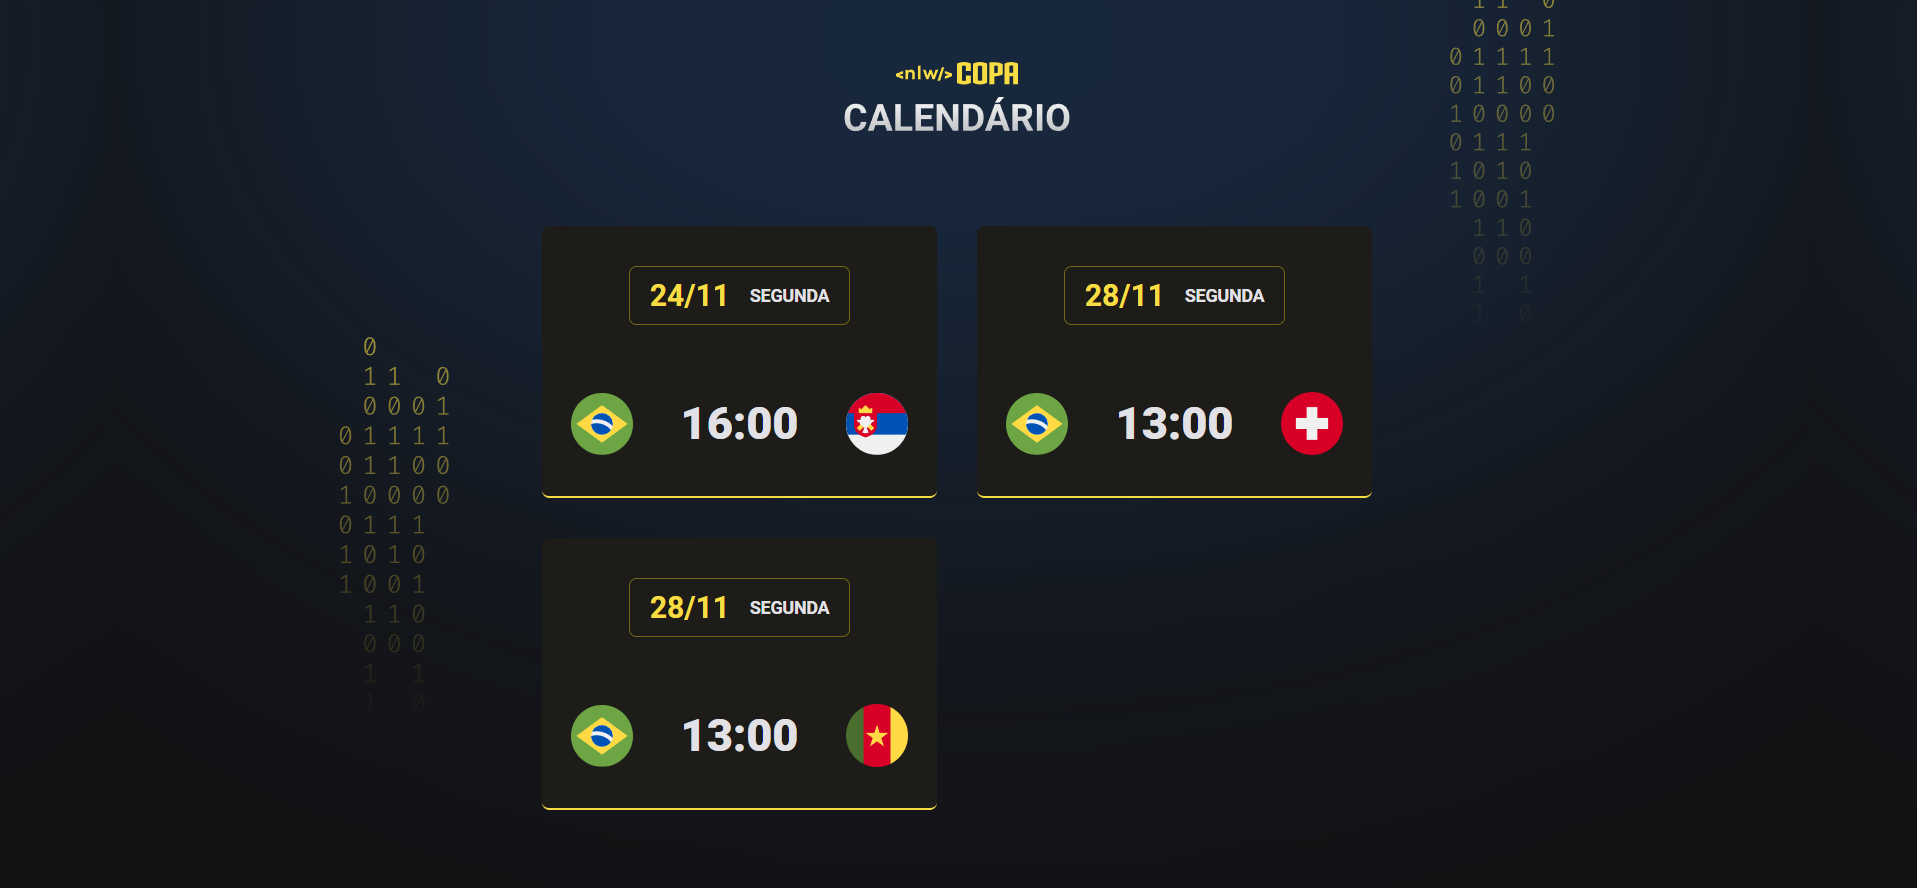
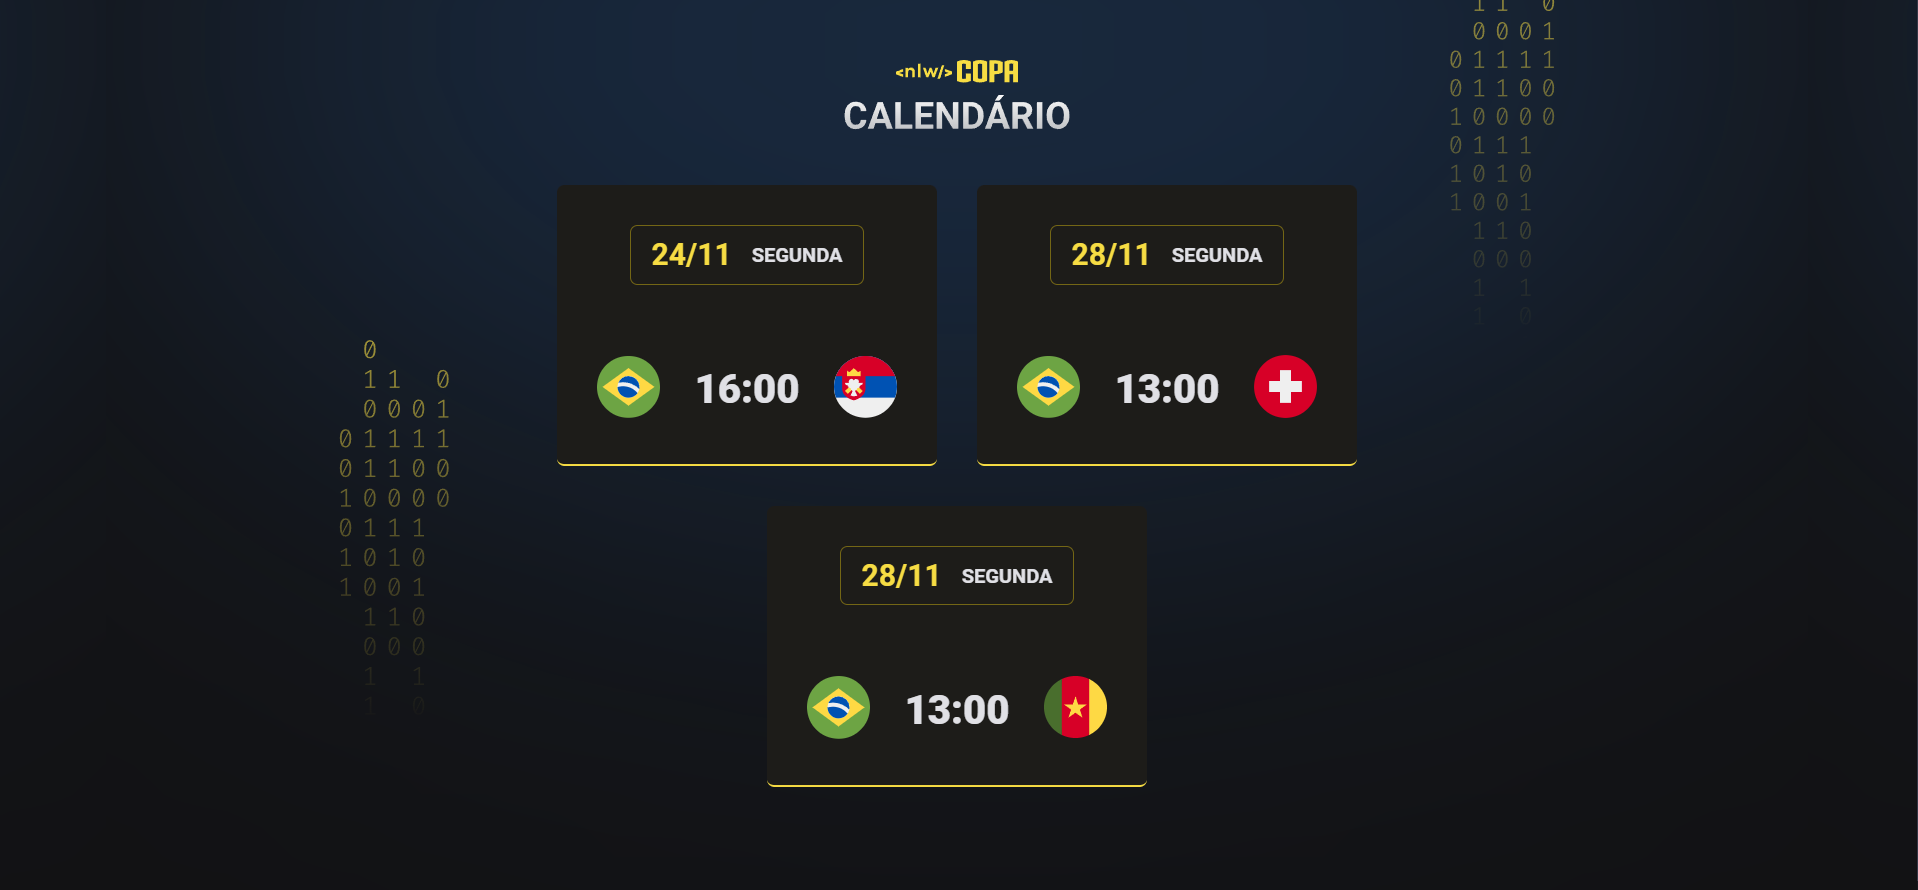
Update project

diff --git a/style.css b/style.css
@@ -4,86 +4,111 @@
   box-sizing: border-box;
 }
 
+body * {
+  font-family: "Roboto", sans-serif;
+  color: #e1e1e6;
+  text-align: center;
+  list-style: none;
+}
+
 body {
   background-color: #121214;
   background-image: url(./assets/bg.svg);
   background-position: center -715px;
 }
 
-body * {
-  font-family: "Roboto", sans-serif;
-}
-
-#app {
-  width: fit-content;
-  margin: 52px auto;
+main {
+  display: grid;
+  place-items: center;
 }
 
 header {
-  margin-bottom: 63px;
-  text-align: center;
+  padding-top: 3rem;
 }
 
 #cards {
-  display: grid;
-  grid-template-columns: 1fr 1fr;
+  max-width: 44rem;
+  padding: 2rem;
+  display: flex;
+  flex-wrap: wrap;
+  justify-content: center;
   gap: 2rem;
 }
 
 .card {
-  padding: 32px 23px;
-  text-align: center;
-
+  max-width: 20rem;
+  padding: 2rem;
   background: #1d1c19;
   border-bottom: 2px solid #f7dd43;
   border-radius: 6px;
+
+  display: flex;
+  flex-direction: column;
+  align-items: center;
+  justify-content: center;
+  gap: 3.5rem;
+  
+  opacity: 0;
+  animation: topDown .7s linear forwards;
 }
 
 .card h2 {
   display: flex;
-  gap: 16px;
-  justify-content: center;
+  gap: 1rem;
   align-items: center;
 
-  padding: 8px 16px;
+  padding: .5rem 1rem;
   border: 1px solid #746615;
   border-radius: 6px;
-
-  width: fit-content;
-  margin-inline: auto;
-  margin-bottom: 53px;
-
   color: #f7dd43;
+
+  animation: appear 2s;
 }
 
 .card h2 span {
-  color: #e1e1e6;
-  font-size: 14px;
+  font-size: 1rem;
   text-transform: uppercase;
 }
 
-.card ul {
-  display: flex;
-  flex-direction: column;
-  gap: 24px;
-
-  width: 270px;
-}
-
 .card ul li  {
+  width: 15rem;
   display: flex;
   align-items: center;
   justify-content: space-between;
 }
 
-.card ul li + li {
-  padding-top: 24px;
-  border-top: 1px solid #323238;
+.card ul li img {
+  transition: transform 0.3s;
+  animation: appear 2s;
+}
+
+.card ul li img:hover {
+  transform: scale(1.2);
 }
 
 .card ul li strong {
   font-weight: 900;
-  font-size: 36px;
-  line-height: 125%;
-  color: #E1E1E6;
+  font-size: 2rem;
+}
+
+@keyframes appear {
+  0% {
+    transform: scale(0);
+  }
+  
+  100% {
+    transform: scale(1);
+  }
+}
+
+@keyframes topDown {
+  from {
+    opacity: 0;
+    transform: translateY(-70px);
+  }
+
+  to {
+    opacity: 1;
+    transform: translateY(0);
+  }
 }

diff --git a/main.js b/main.js
@@ -1,16 +1,10 @@
-function createGame(player1, hour, player2) {
-  return `
-    <li>
-      <img src="./assets/icon-${player1}.svg" alt="Bandeira do ${player1}" />
-      <strong>${hour}</strong>
-      <img src="./assets/icon-${player2}.svg" alt="Bandeira da ${player2}" />
-    </li>
-  `
-}
+const sectionCards = document.querySelector("#cards")
+let delay = -1
 
 function createCard(date, day, games) {
+  delay = delay + 1
   return `
-    <div class="card">
+    <div class="card" style="animation-delay: ${delay}s">
       <h2>${date}<span>${day}</span></h2>
         <ul>
           ${games}
@@ -19,13 +13,18 @@ function createCard(date, day, games) {
     `
 }
 
-document.querySelector("#app").innerHTML = `
-  <header>
-    <img src="./assets/logo.svg" alt="Logo da NLW" />
-  </header>
-  <main id="cards">
+function createGame(player1, hour, player2) {
+  return `
+    <li>
+      <abbr title="${player1}"><img src="./assets/icon-${player1}.svg" alt="Bandeira do ${player1}"/></abbr>
+      <strong>${hour}</strong>
+      <abbr title="${player2}"><img src="./assets/icon-${player2}.svg" alt="Bandeira da ${player2}"/></abbr>
+    </li>
+  `
+}
+
+sectionCards.innerHTML += `
     ${createCard("24/11", "segunda", createGame("brasil", "16:00", "serbia"))}
     ${createCard("28/11", "segunda", createGame("brasil", "13:00", "switzerland"))}
     ${createCard("28/11", "segunda", createGame("brasil", "13:00", "cameroon"))}
-  </main>
 `

diff --git a/index.html b/index.html
@@ -14,6 +14,11 @@
     <script src="main.js" defer></script>
   </head>
   <body>
-    <div id="app"></div>
+    <main>
+      <header>
+        <img src="./assets/logo.svg" alt="Logo da NLW" />
+      </header>
+      <section id="cards"></section>
+    </main>
   </body>
 </html>
